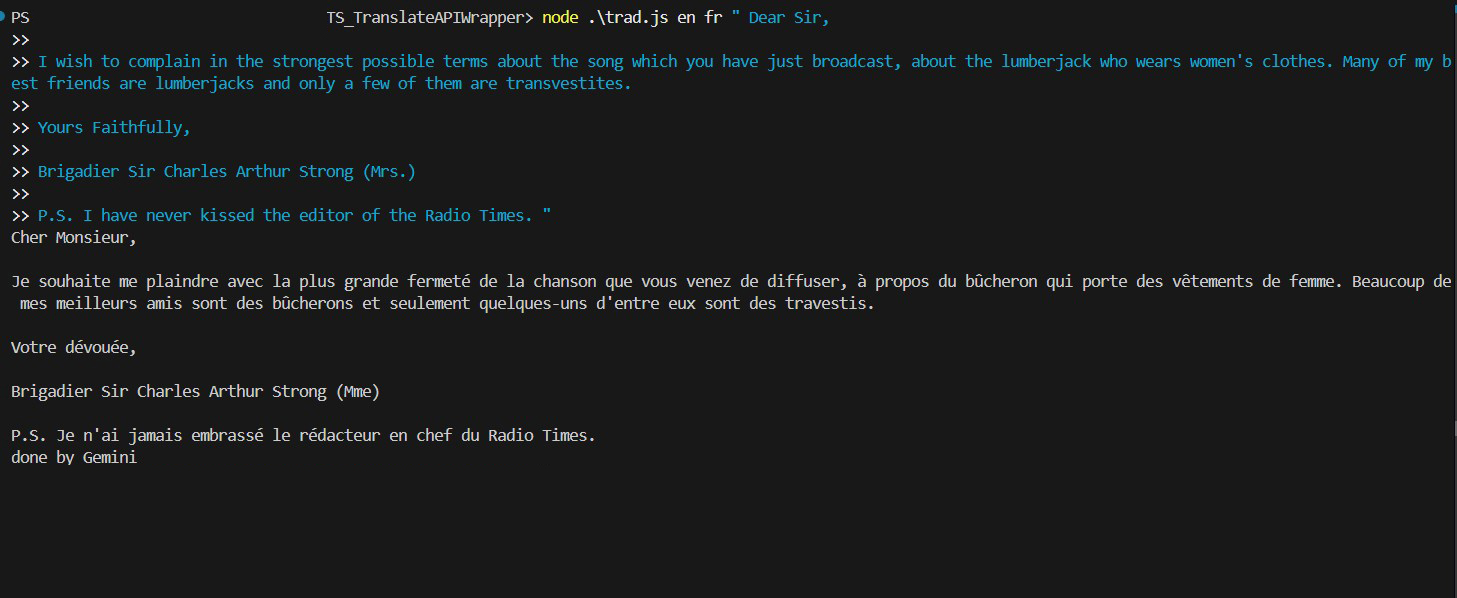
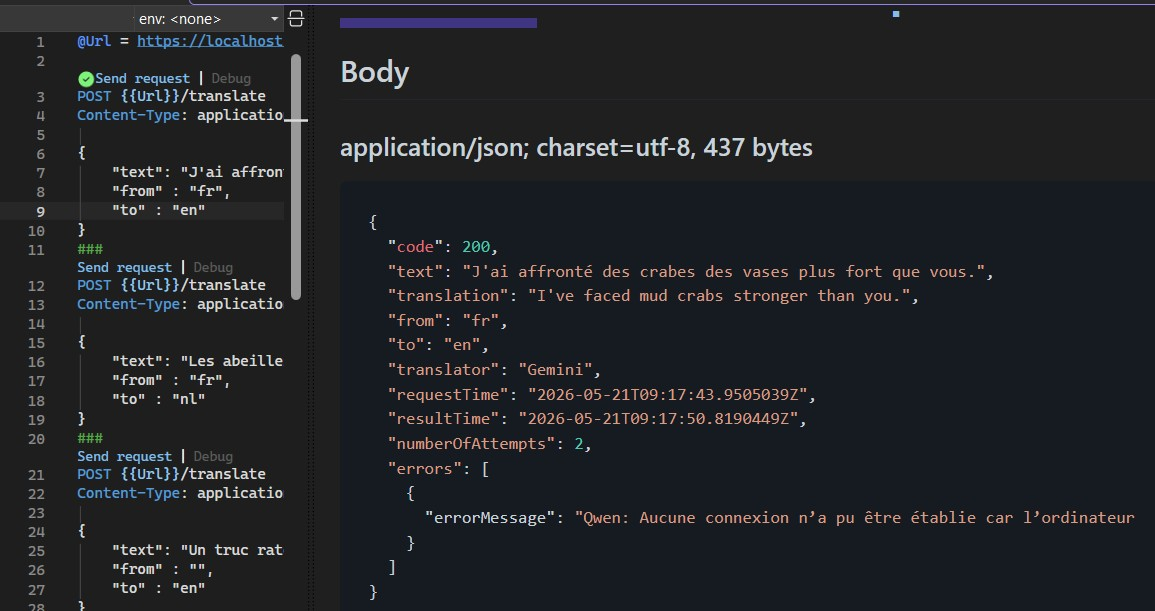
website update

diff --git a/frontend/src/styles.css b/frontend/src/styles.css
@@ -33,6 +33,10 @@ body {
     background: var(--bg-color);
 }
 
+a:visited, a:active, a:link {
+    color: var(--white)!important;
+}
+
 @keyframes colorShift {
     0% {
         background-color: rgba(186, 45, 32, var(--glass-alpha));
@@ -77,4 +81,14 @@ body {
 
 #app-menu {
     flex: 1;
+}
+
+code{
+    display: block;
+    border: 1px solid var(--white);
+    border-radius: 3px;
+    background-color: var(--black);
+    padding:10px;
+    padding-top:20px;
+    padding-bottom:20px;
 }

diff --git a/frontend/src/app/components/home/home.html b/frontend/src/app/components/home/home.html
@@ -11,7 +11,7 @@
           }
           </div>
       }
-      @placeholder (minimum 10ms)
+      @placeholder (minimum 2ms)
       {
         <div style="display:flex; justify-content: center; align-items: center;">
           <app-loader style="flex:1;"></app-loader>

diff --git a/frontend/src/app/components/project-page/project-page.html b/frontend/src/app/components/project-page/project-page.html
@@ -38,7 +38,7 @@
     Project introuvable.
     }
 }
-@placeholder (minimum 10ms)
+@placeholder (minimum 2ms)
 {
     <div style="display:flex; justify-content: center; align-items: center;">
         <app-loader style="flex:1;"></app-loader>
